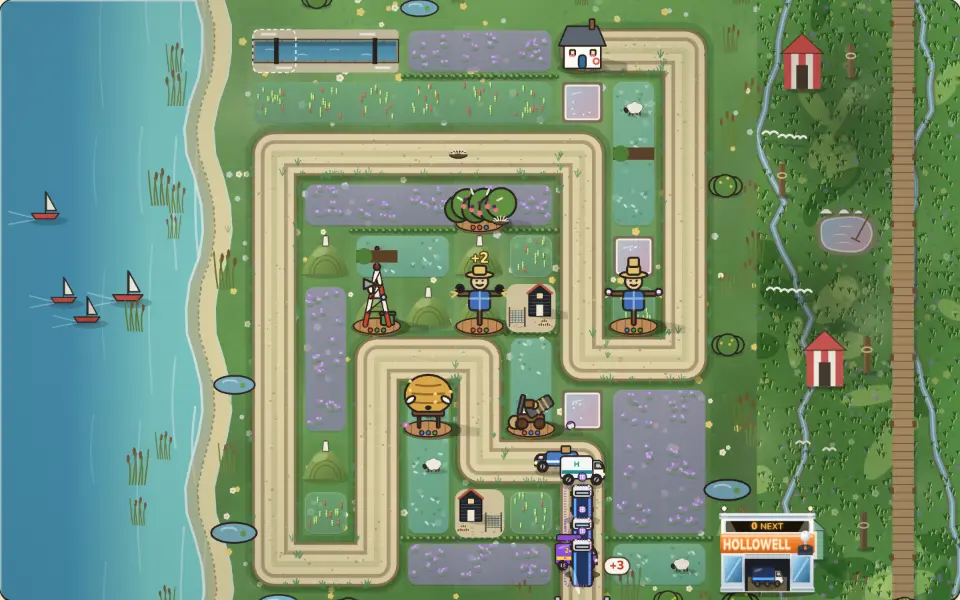
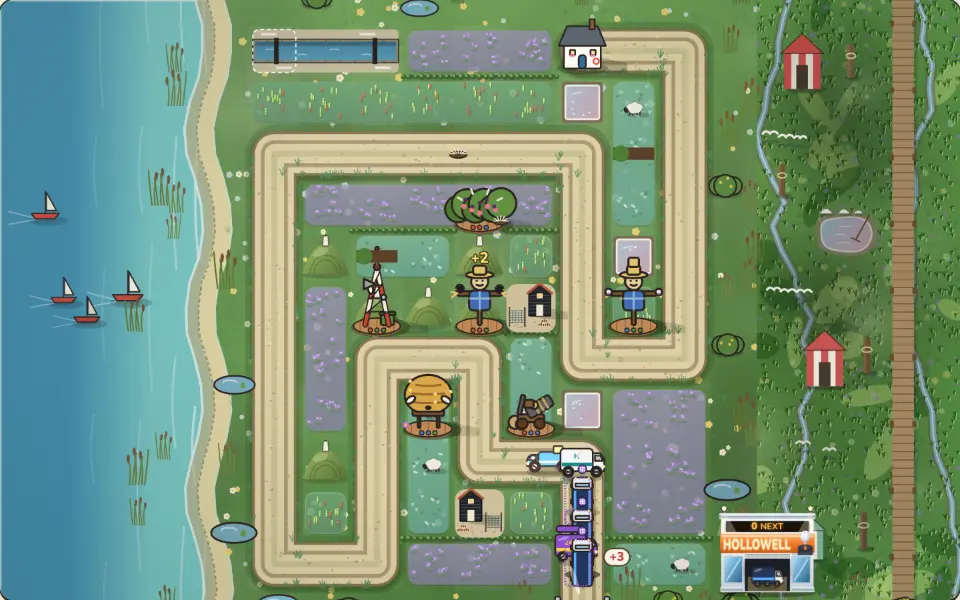
Hedgerow 399 slice 5: The Rift's agribusiness field (oilseed rape, sugar beet, ragwort fallow, a steel Dutch barn, gravel pits, a brick bungalow); key art re-shot
Claude-Session: https://claude.ai/code/session_01SimvMN1RHBGCWN7Eo7MzhN

Changed region(s): [[0.5312, 0.72, 0.6562, 0.96]]

diff --git a/games/hedgerow/src/fieldkitart.ts b/games/hedgerow/src/fieldkitart.ts
@@ -46,6 +46,12 @@ const FILL: Partial<Record<BedLook, [string, string]>> = {
   lazybed: ["rgba(104,84,62,0.82)", "rgba(86,70,52,0.86)"],
   // Thrift: short cliff turf studded with pink cushions.
   thrift: ["rgba(128,166,104,0.7)", "rgba(110,148,92,0.74)"],
+  // Oilseed rape in flower: a hard chemical yellow.
+  rape: ["rgba(238,214,58,0.82)", "rgba(220,192,40,0.86)"],
+  // Sugar beet: glossy leaf rows on grey-brown soil.
+  beet: ["rgba(122,110,92,0.82)", "rgba(104,94,80,0.86)"],
+  // Fallow: rough grass gone to ragwort and dock.
+  fallow: ["rgba(150,158,104,0.7)", "rgba(130,138,90,0.74)"],
   // Water meadow: lush green ridges between drains.
   meadow: ["rgba(132,186,64,0.68)", "rgba(110,164,54,0.72)"],
   // Mown swathes: fresh pale green, the cut rows darker.
@@ -83,7 +89,7 @@ export function paintKitBed(ctx: C, x: number, y: number, s: number, look: BedLo
   ctx.clip();
   ctx.lineCap = "round";
   // Long-way rows (drains, swathes, cress channels) run the whole field, not plot by plot.
-  if (look === "meadow" || look === "swathe" || look === "cress" || look === "turnips" || look === "lazybed") rows(ctx, look, bx, by, bw, bh, s, across, rng(seed + 5));
+  if (look === "meadow" || look === "swathe" || look === "cress" || look === "turnips" || look === "lazybed" || look === "beet") rows(ctx, look, bx, by, bw, bh, s, across, rng(seed + 5));
   for (let row = 0; row < m; row++) for (let cell = 0; cell < n; cell++) scatter(ctx, look, x + cell * s, y + row * s, s, rng(seed + cell * 131 + row * 977));
   ctx.restore();
   if (n === 1 && m === 1) {
@@ -153,6 +159,21 @@ function rows(ctx: C, look: BedLook, bx: number, by: number, bw: number, bh: num
         ctx.fillStyle = "rgba(240,236,250,0.95)";
         ctx.beginPath();
         ctx.arc(tx + s * 0.012, ty - s * 0.012, s * 0.009, 0, Math.PI * 2);
+        ctx.fill();
+      }
+    } else if (look === "beet") {
+      // Beet in drilled rows: glossy dark leaves with red stalks.
+      for (let q = s * 0.1 + r01() * s * 0.06; q < len - s * 0.1; q += s * 0.16) {
+        const [tx, ty] = at(q);
+        for (const a of [-0.7, 0, 0.7]) {
+          ctx.fillStyle = a ? "rgba(60,110,52,0.97)" : "rgba(80,134,62,0.97)";
+          ctx.beginPath();
+          ctx.ellipse(tx + Math.sin(a) * s * 0.03, ty - s * 0.02, s * 0.022, s * 0.04, a, 0, Math.PI * 2);
+          ctx.fill();
+        }
+        ctx.fillStyle = "rgba(170,60,70,0.9)";
+        ctx.beginPath();
+        ctx.arc(tx, ty + s * 0.012, s * 0.012, 0, Math.PI * 2);
         ctx.fill();
       }
     } else if (look === "turnips") {
@@ -323,6 +344,35 @@ function scatter(ctx: C, look: BedLook, x: number, y: number, s: number, r01: ()
         ctx.arc(cx + (k - 1.5) * s * 0.022, cy - s * (0.025 + (k % 2) * 0.012), s * 0.016, 0, Math.PI * 2);
         ctx.fill();
       }
+    }
+  } else if (look === "rape") {
+    // A sea of small yellow heads over green stems.
+    for (let j = 0; j < 22; j++) {
+      ctx.fillStyle = j % 4 ? "rgba(250,232,80,0.97)" : "rgba(120,150,60,0.8)";
+      ctx.beginPath();
+      ctx.arc(px(), py(), s * 0.018, 0, Math.PI * 2);
+      ctx.fill();
+    }
+  } else if (look === "fallow") {
+    // Rough tussocks, ragwort's flat yellow heads and rusty dock spikes.
+    for (let j = 0; j < 8; j++) {
+      const tx = px(), ty = py();
+      ctx.strokeStyle = "rgba(110,120,64,0.85)";
+      ctx.lineWidth = Math.max(1, s * 0.018);
+      for (const dx of [-0.025, 0, 0.025]) line(ctx, [tx, ty], [tx + s * dx, ty - s * 0.05]);
+    }
+    for (let j = 0; j < 3; j++) {
+      const tx = px(), ty = py();
+      ctx.fillStyle = "rgba(236,190,40,0.97)";
+      for (let k = 0; k < 3; k++) {
+        ctx.beginPath();
+        ctx.arc(tx + (k - 1) * s * 0.02, ty - s * 0.05, s * 0.014, 0, Math.PI * 2);
+        ctx.fill();
+      }
+      ctx.strokeStyle = "rgba(150,74,44,0.95)";
+      ctx.lineWidth = Math.max(1, s * 0.02);
+      const dx = px();
+      line(ctx, [dx, ty], [dx, ty - s * 0.08]);
     }
   } else if (look === "garlic") {
     // Broad leaves in clumps and white star-heads held over them.
@@ -544,6 +594,34 @@ export function paintKitWater(ctx: C, x: number, y: number, s: number, look: Wat
       ctx.arc(fx, fy - s * 0.08, s * 0.025, 0, Math.PI * 2);
       ctx.fill();
     }
+  } else if (look === "gravelpit") {
+    // A flooded gravel pit: a hard-edged grey bank, cold blue water, a warning sign on a post.
+    const i = s * 0.1;
+    ctx.fillStyle = "rgba(170,166,156,0.95)";
+    ctx.beginPath();
+    ctx.roundRect(x + i, y + i, s - i * 2, s - i * 2, s * 0.08);
+    ctx.fill();
+    ctx.fillStyle = "rgba(60,112,150,0.97)";
+    ctx.beginPath();
+    ctx.roundRect(x + s * 0.18, y + s * 0.2, s * 0.64, s * 0.6, s * 0.05);
+    ctx.fill();
+    ctx.strokeStyle = "rgba(220,236,246,0.6)";
+    ctx.lineWidth = Math.max(1, s * 0.022);
+    line(ctx, [x + s * 0.3, y + s * 0.36], [x + s * 0.5, y + s * 0.33]);
+    const sx = x + s * (0.72 + r01() * 0.06);
+    ctx.strokeStyle = "#5c4126";
+    ctx.lineWidth = Math.max(1, s * 0.02);
+    line(ctx, [sx, y + s * 0.3], [sx, y + s * 0.14]);
+    ctx.fillStyle = "#e8c22e";
+    ctx.strokeStyle = "#2a2420";
+    ctx.lineWidth = Math.max(0.75, s * 0.01);
+    ctx.beginPath();
+    ctx.moveTo(sx, y + s * 0.06);
+    ctx.lineTo(sx + s * 0.06, y + s * 0.16);
+    ctx.lineTo(sx - s * 0.06, y + s * 0.16);
+    ctx.closePath();
+    ctx.fill();
+    ctx.stroke();
   } else if (look === "rockpool") {
     // A rock pool: grey boulders round clear green-blue water, weed and an anemone.
     const cx = x + s * 0.5, cy = y + s * 0.52;
@@ -735,6 +813,46 @@ export function drawKitBarn(ctx: C, x: number, y: number, w: number, look: BarnL
     ctx.strokeStyle = "#efe6cf";
     ctx.lineWidth = Math.max(1, w * 0.014);
     ctx.strokeRect(left + bw * 0.38, eave + w * 0.03, bw * 0.24, w * 0.08);
+  } else if (look === "dutchbarn") {
+    // A steel Dutch barn on concrete: a green hooped roof on girders, round bales wrapped in black plastic.
+    ctx.fillStyle = "rgba(40,36,24,0.16)";
+    ctx.beginPath();
+    ctx.roundRect(x + w * 0.02, y + w * 0.06, w * 0.96, w * 0.96, w * 0.1);
+    ctx.fill();
+    ctx.fillStyle = "rgb(184,182,174)";
+    ctx.beginPath();
+    ctx.roundRect(x + w * 0.02, y + w * 0.04, w * 0.96, w * 0.94, w * 0.1);
+    ctx.fill();
+    const left = x + w * 0.1, bw = w * 0.8, top = y + w * 0.14, base = y + w * 0.64;
+    castShadow(ctx, left + bw / 2, base, bw / 2, w * 0.14, w * 0.5, 0.2);
+    // Bales under the roof.
+    for (let k = 0; k < 4; k++) {
+      ctx.fillStyle = "#26282a";
+      ctx.beginPath();
+      ctx.arc(left + bw * (0.15 + k * 0.23), base - w * 0.09, w * 0.09, 0, Math.PI * 2);
+      ctx.fill();
+      ctx.fillStyle = "rgba(255,255,255,0.25)";
+      ctx.beginPath();
+      ctx.arc(left + bw * (0.13 + k * 0.23), base - w * 0.12, w * 0.025, 0, Math.PI * 2);
+      ctx.fill();
+    }
+    ctx.strokeStyle = "#4a4e52";
+    ctx.lineWidth = Math.max(1.5, w * 0.03);
+    for (const k of [0, 0.5, 1]) line(ctx, [left + bw * k, base], [left + bw * k, top + w * 0.1]);
+    ctx.fillStyle = "#4f7d5a";
+    ctx.strokeStyle = "#2a3e30";
+    ctx.lineWidth = Math.max(1, w * 0.02);
+    ctx.beginPath();
+    ctx.moveTo(left - w * 0.04, top + w * 0.14);
+    ctx.quadraticCurveTo(left + bw / 2, top - w * 0.1, left + bw + w * 0.04, top + w * 0.14);
+    ctx.lineTo(left + bw + w * 0.04, top + w * 0.2);
+    ctx.quadraticCurveTo(left + bw / 2, top - w * 0.04, left - w * 0.04, top + w * 0.2);
+    ctx.closePath();
+    ctx.fill();
+    ctx.stroke();
+    ctx.strokeStyle = "rgba(200,220,200,0.35)";
+    ctx.lineWidth = Math.max(0.75, w * 0.008);
+    for (let k = 1; k < 8; k++) line(ctx, [left + (bw * k) / 8, top + w * 0.02], [left + (bw * k) / 8, top + w * 0.12]);
   } else if (look === "boathut") {
     // An old boat turned keel-up for a store, a door cut in its stern, on the shingle, with a capstan by it.
     ctx.fillStyle = "rgba(40,36,24,0.16)";

diff --git a/games/hedgerow/src/fieldkit.ts b/games/hedgerow/src/fieldkit.ts
@@ -26,15 +26,19 @@ export type BedLook =
   | "seakale"
   | "lazybed"
   | "thrift"
+  // The Rift: agribusiness at the edge: oilseed rape, sugar beet, a fallow strip gone to ragwort.
+  | "rape"
+  | "beet"
+  | "fallow"
   // Rivermead: water-meadow strips with their drains, a hay meadow mown into swathes, a watercress bed (no trees: an orchard reads as item 43's unbuildable orchard landmark).
   | "meadow"
   | "swathe"
   | "cress";
 
 /** The building on a barn's cell. */
-export type BarnLook = "barn" | "netshed" | "millhouse" | "fold" | "timberbarn" | "boathut";
+export type BarnLook = "barn" | "netshed" | "millhouse" | "fold" | "timberbarn" | "boathut" | "dutchbarn";
 /** A water plot: a round farm pond, a salt pan, a willow-ringed pond. */
-export type WaterLook = "pond" | "saltpan" | "willowpond" | "peatpool" | "lilypool" | "rockpool";
+export type WaterLook = "pond" | "saltpan" | "willowpond" | "peatpool" | "lilypool" | "rockpool" | "gravelpit";
 
 export interface FieldKit {
   name: string;
@@ -45,7 +49,7 @@ export interface FieldKit {
   barn: BarnLook;
   water: WaterLook;
   /** The farmhouse at the lane's end (sprites.ts's drawFarmhouse). */
-  house: "farm" | "fisher" | "thatch" | "longhouse" | "lodge" | "flint";
+  house: "farm" | "fisher" | "thatch" | "longhouse" | "lodge" | "flint" | "bungalow";
 }
 
 export const BRINDLE_KIT: FieldKit = { name: "farm", beds: ["earth", "stubble", "clover"], puddle: "earth", barn: "barn", water: "pond", house: "farm" };
@@ -56,6 +60,7 @@ export const FIELD_KITS: Partial<Record<number, FieldKit>> = {
   2: { name: "saltmarsh", beds: ["samphire", "lavender", "saltgrass"], barn: "netshed", water: "saltpan", house: "fisher" },
   4: { name: "woodland holding", beds: ["garlic", "litter", "bluebell"], barn: "timberbarn", water: "lilypool", house: "lodge" },
   5: { name: "shingle croft", beds: ["seakale", "lazybed", "thrift"], barn: "boathut", water: "rockpool", house: "flint" },
+  6: { name: "agribusiness", beds: ["rape", "beet", "fallow"], barn: "dutchbarn", water: "gravelpit", house: "bungalow" },
   3: { name: "water meadow", beds: ["meadow", "swathe", "cress"], barn: "millhouse", water: "willowpond", house: "thatch" },
 };
 
@@ -77,6 +82,7 @@ export function bedBase(look: BedLook | "puddle"): "earth" | "stubble" | "clover
     case "turnips":
     case "litter":
     case "lazybed":
+    case "beet":
       return "earth";
     case "stubble":
     case "saltgrass":
@@ -84,6 +90,7 @@ export function bedBase(look: BedLook | "puddle"): "earth" | "stubble" | "clover
     case "oats":
     case "bluebell":
     case "seakale":
+    case "rape":
       return "stubble";
     default:
       return "clover";

diff --git a/games/hedgerow/src/sprites.ts b/games/hedgerow/src/sprites.ts
@@ -2431,7 +2431,7 @@ export function drawHero(ctx: C, look: HeroLook, x: number, y: number, s: number
  * Plan item 399: the farmhouse in each act's field kit: Brindle's red-tiled farmhouse, Saltmarsh's whitewashed
  * fisher's cottage under grey slate with a blue door and a lifebuoy, Rivermead's pink-washed cottage under thatch.
  */
-export type HouseLook = "farm" | "fisher" | "thatch" | "longhouse" | "lodge" | "flint";
+export type HouseLook = "farm" | "fisher" | "thatch" | "longhouse" | "lodge" | "flint" | "bungalow";
 const HOUSE: Record<HouseLook, { wall: string; roof: string; door: string; thatch?: boolean; frame?: boolean }> = {
   farm: { wall: "#f4ede1", roof: "#b5523b", door: "#4f7f37" },
   fisher: { wall: "#fbfaf4", roof: "#5d6670", door: "#2f6c9a" },
@@ -2442,6 +2442,8 @@ const HOUSE: Record<HouseLook, { wall: string; roof: string; door: string; thatc
   lodge: { wall: "#f4eedd", roof: "#8e4e36", door: "#2f2622", frame: true },
   // Shingle Bay: a cottage of knapped flint (blue-grey) under red pantiles, a yellow door.
   flint: { wall: "#8f97a0", roof: "#c0603c", door: "#e3b33c" },
+  // The Rift: a red-brick bungalow under concrete tiles, a white uPVC door.
+  bungalow: { wall: "#b5644a", roof: "#6a6866", door: "#f2f2ee" },
 };
 
 export function drawFarmhouse(ctx: C, x: number, y: number, s: number, t: number, health: number, look: HouseLook = "farm"): void {

diff --git a/tests/hedgerow-fieldkit.test.ts b/tests/hedgerow-fieldkit.test.ts
@@ -17,7 +17,7 @@ describe("field kits", () => {
       }
   });
 
-  it("give Highmoor, Saltmarsh, Rivermead, Oakvale and Shingle Bay their own kits, and the farm's to Brindle", () => {
+  it("give Highmoor, Saltmarsh, Rivermead, Oakvale, Shingle Bay and The Rift their own kits, and the farm's to Brindle", () => {
     expect(kitFor({ id: 5 })).toBe(BRINDLE_KIT);
     expect(kitFor({ id: 15 }).name).toBe("hill farm");
     expect(kitFor({ id: 21 }).name).toBe("saltmarsh");
@@ -25,6 +25,7 @@ describe("field kits", () => {
     expect(kitFor({ id: 34 }).name).toBe("water meadow");
     expect(kitFor({ id: 45 }).name).toBe("woodland holding");
     expect(kitFor({ id: 55 }).name).toBe("shingle croft");
+    expect(kitFor({ id: 65 }).name).toBe("agribusiness");
   });
 
   it("sow every plot of a level from its act's kit", () => {

diff --git a/docs/plan/two-week-plan.md b/docs/plan/two-week-plan.md
@@ -3848,7 +3848,7 @@ The items come from fresh-eyes audits on 2026-11-01 and 2026-11-02 (items 25-32:
 - **Accept:** each point checked before and after at P and D; the specs for each screen pass.
 - **Size:** 1
 
-## 399. [ ] Hedgerow 2D: each act's field furnished as its own country, not the same barn, cottage and haystacks every time *(lane B, in progress)* *(slice 1, 2026-11-15 03:40 lane B: `fieldkit.ts`/`fieldkitart.ts`: Saltmarsh sows samphire, sea-lavender and salt grazing with ewes, its barns are tarred net sheds, its water plots salt pans, its farmhouse a whitewashed fisher's cottage; Rivermead water-meadow drains, mown swathes and watercress (no orchard row: trees on a buildable plot read as item 43's unbuildable orchard), a mill house on its leat, willow-ringed ponds, a thatched cottage. Brindle keeps the farm kit; 3D maps each kit to its three beds. hedgerow-fieldkit measures the plots' hue: l21 vs l34 30 deg at D, 28 at P (13 before); hedgerow-field, cath2d, gatequeue pass (35); key art re-shot (level 30). Shots `h399a` (before), `h399b`)* *(slice 2: Highmoor: hill oats, turnip drills, walled in-bye with ewes, a stone sheepfold, peat pools, a grey longhouse; shots `h399c`)* *(slice 3: Oakvale: wild garlic, leaf litter with toadstools, bluebells on green ground (a blue fill read as water), a timber-framed barn, a lily pool, a black-and-white lodge; fieldkit, cath2d, depot, map pass (75); key art re-shot; shots `h399d`. Left: the knolls are one look everywhere)* *(slice 4: Shingle Bay: sea kale on shingle, potato lazybeds under wrack, thrift on cliff turf, an upturned-boat hut with a capstan, rock pools, a flint cottage; shots `h399e`. Left: The Rift, The Ballot, The Merger and Kingsmarket (acts 7-10) keep the farm kit; the knolls are one look everywhere)*
+## 399. [ ] Hedgerow 2D: each act's field furnished as its own country, not the same barn, cottage and haystacks every time *(lane B, in progress)* *(slice 1, 2026-11-15 03:40 lane B: `fieldkit.ts`/`fieldkitart.ts`: Saltmarsh sows samphire, sea-lavender and salt grazing with ewes, its barns are tarred net sheds, its water plots salt pans, its farmhouse a whitewashed fisher's cottage; Rivermead water-meadow drains, mown swathes and watercress (no orchard row: trees on a buildable plot read as item 43's unbuildable orchard), a mill house on its leat, willow-ringed ponds, a thatched cottage. Brindle keeps the farm kit; 3D maps each kit to its three beds. hedgerow-fieldkit measures the plots' hue: l21 vs l34 30 deg at D, 28 at P (13 before); hedgerow-field, cath2d, gatequeue pass (35); key art re-shot (level 30). Shots `h399a` (before), `h399b`)* *(slice 2: Highmoor: hill oats, turnip drills, walled in-bye with ewes, a stone sheepfold, peat pools, a grey longhouse; shots `h399c`)* *(slice 3: Oakvale: wild garlic, leaf litter with toadstools, bluebells on green ground (a blue fill read as water), a timber-framed barn, a lily pool, a black-and-white lodge; fieldkit, cath2d, depot, map pass (75); key art re-shot; shots `h399d`. Left: the knolls are one look everywhere)* *(slice 4: Shingle Bay: sea kale on shingle, potato lazybeds under wrack, thrift on cliff turf, an upturned-boat hut with a capstan, rock pools, a flint cottage; shots `h399e`. )* *(slice 5: The Rift: oilseed rape, sugar beet drills, a ragwort fallow, a steel Dutch barn with wrapped bales, flooded gravel pits, a brick bungalow; shots `h399f`. Left: The Ballot, The Merger and Kingsmarket (acts 8-10) keep the farm kit; the knolls are one look everywhere)*
 - **Why:** items 345, 370 and 388 made the margins act-specific, but the board's inside is one kit: `plan1115a/hedge-l21-2d-D` (Saltmarsh) a red barn (610-655 x 295-345), a white cottage (550-610 x 675-740), straw cones, chickens, round blue ponds; `hedge-l34-2d-D` (Rivermead) the same barn twice (515-580 x 455-525, 725-790 x 530-595), the same cottage, cones and ponds. Margins hidden, the acts can't be told apart; P the same.
 - **Build:** a field set per act in `theme.ts`/`plotlook.ts`/`landmarks.ts`: buildings, crop beds, livestock, water shapes (Saltmarsh: a tarred net shed, samphire and sea-lavender beds, sheep on salt grazing, item 388's pans; Rivermead: a mill-race cottage, water-meadow strips, an orchard row, willow-ringed ponds). Plot types and gameplay unchanged; key art re-shot.
 - **Accept:** a unit test that no building or bed sprite is shared between acts' kits; the mean hue of l21's and l34's field interiors differs by 15 deg+; hedgerow field, cath2d, gatequeue and keyart-fresh pass; shots acts 1, 3 and 4 at P and D, before and after.
